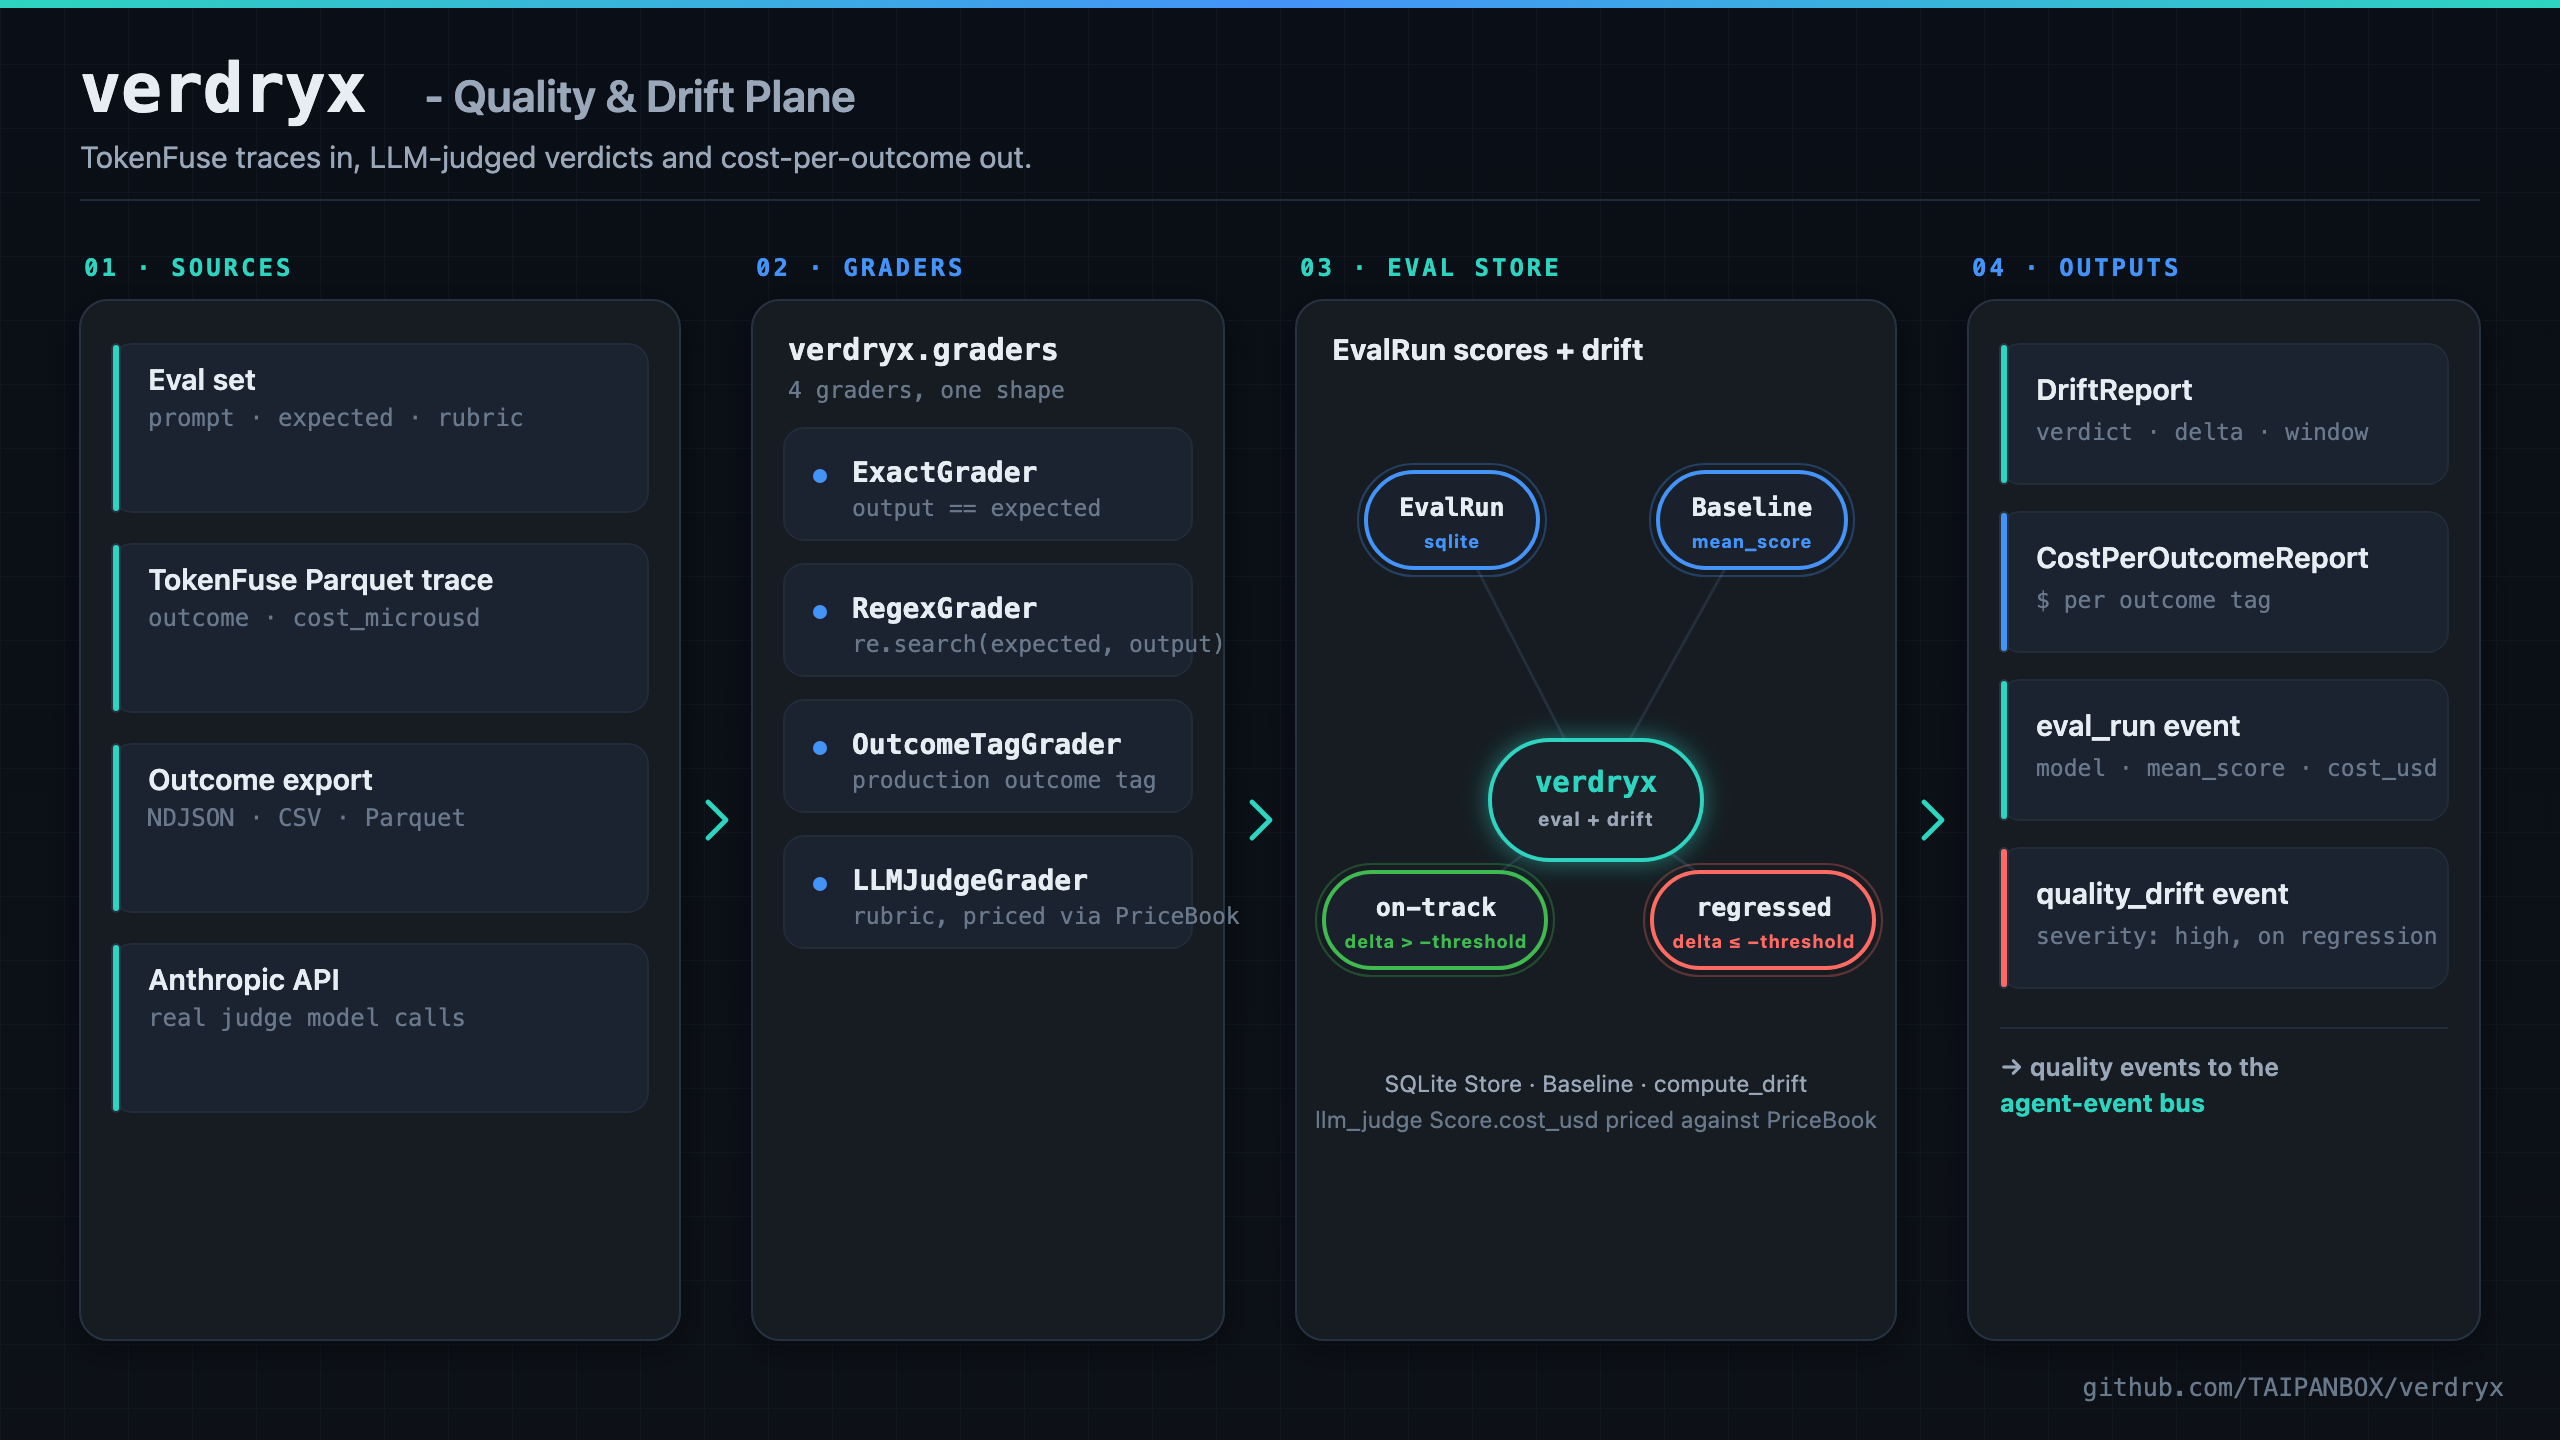
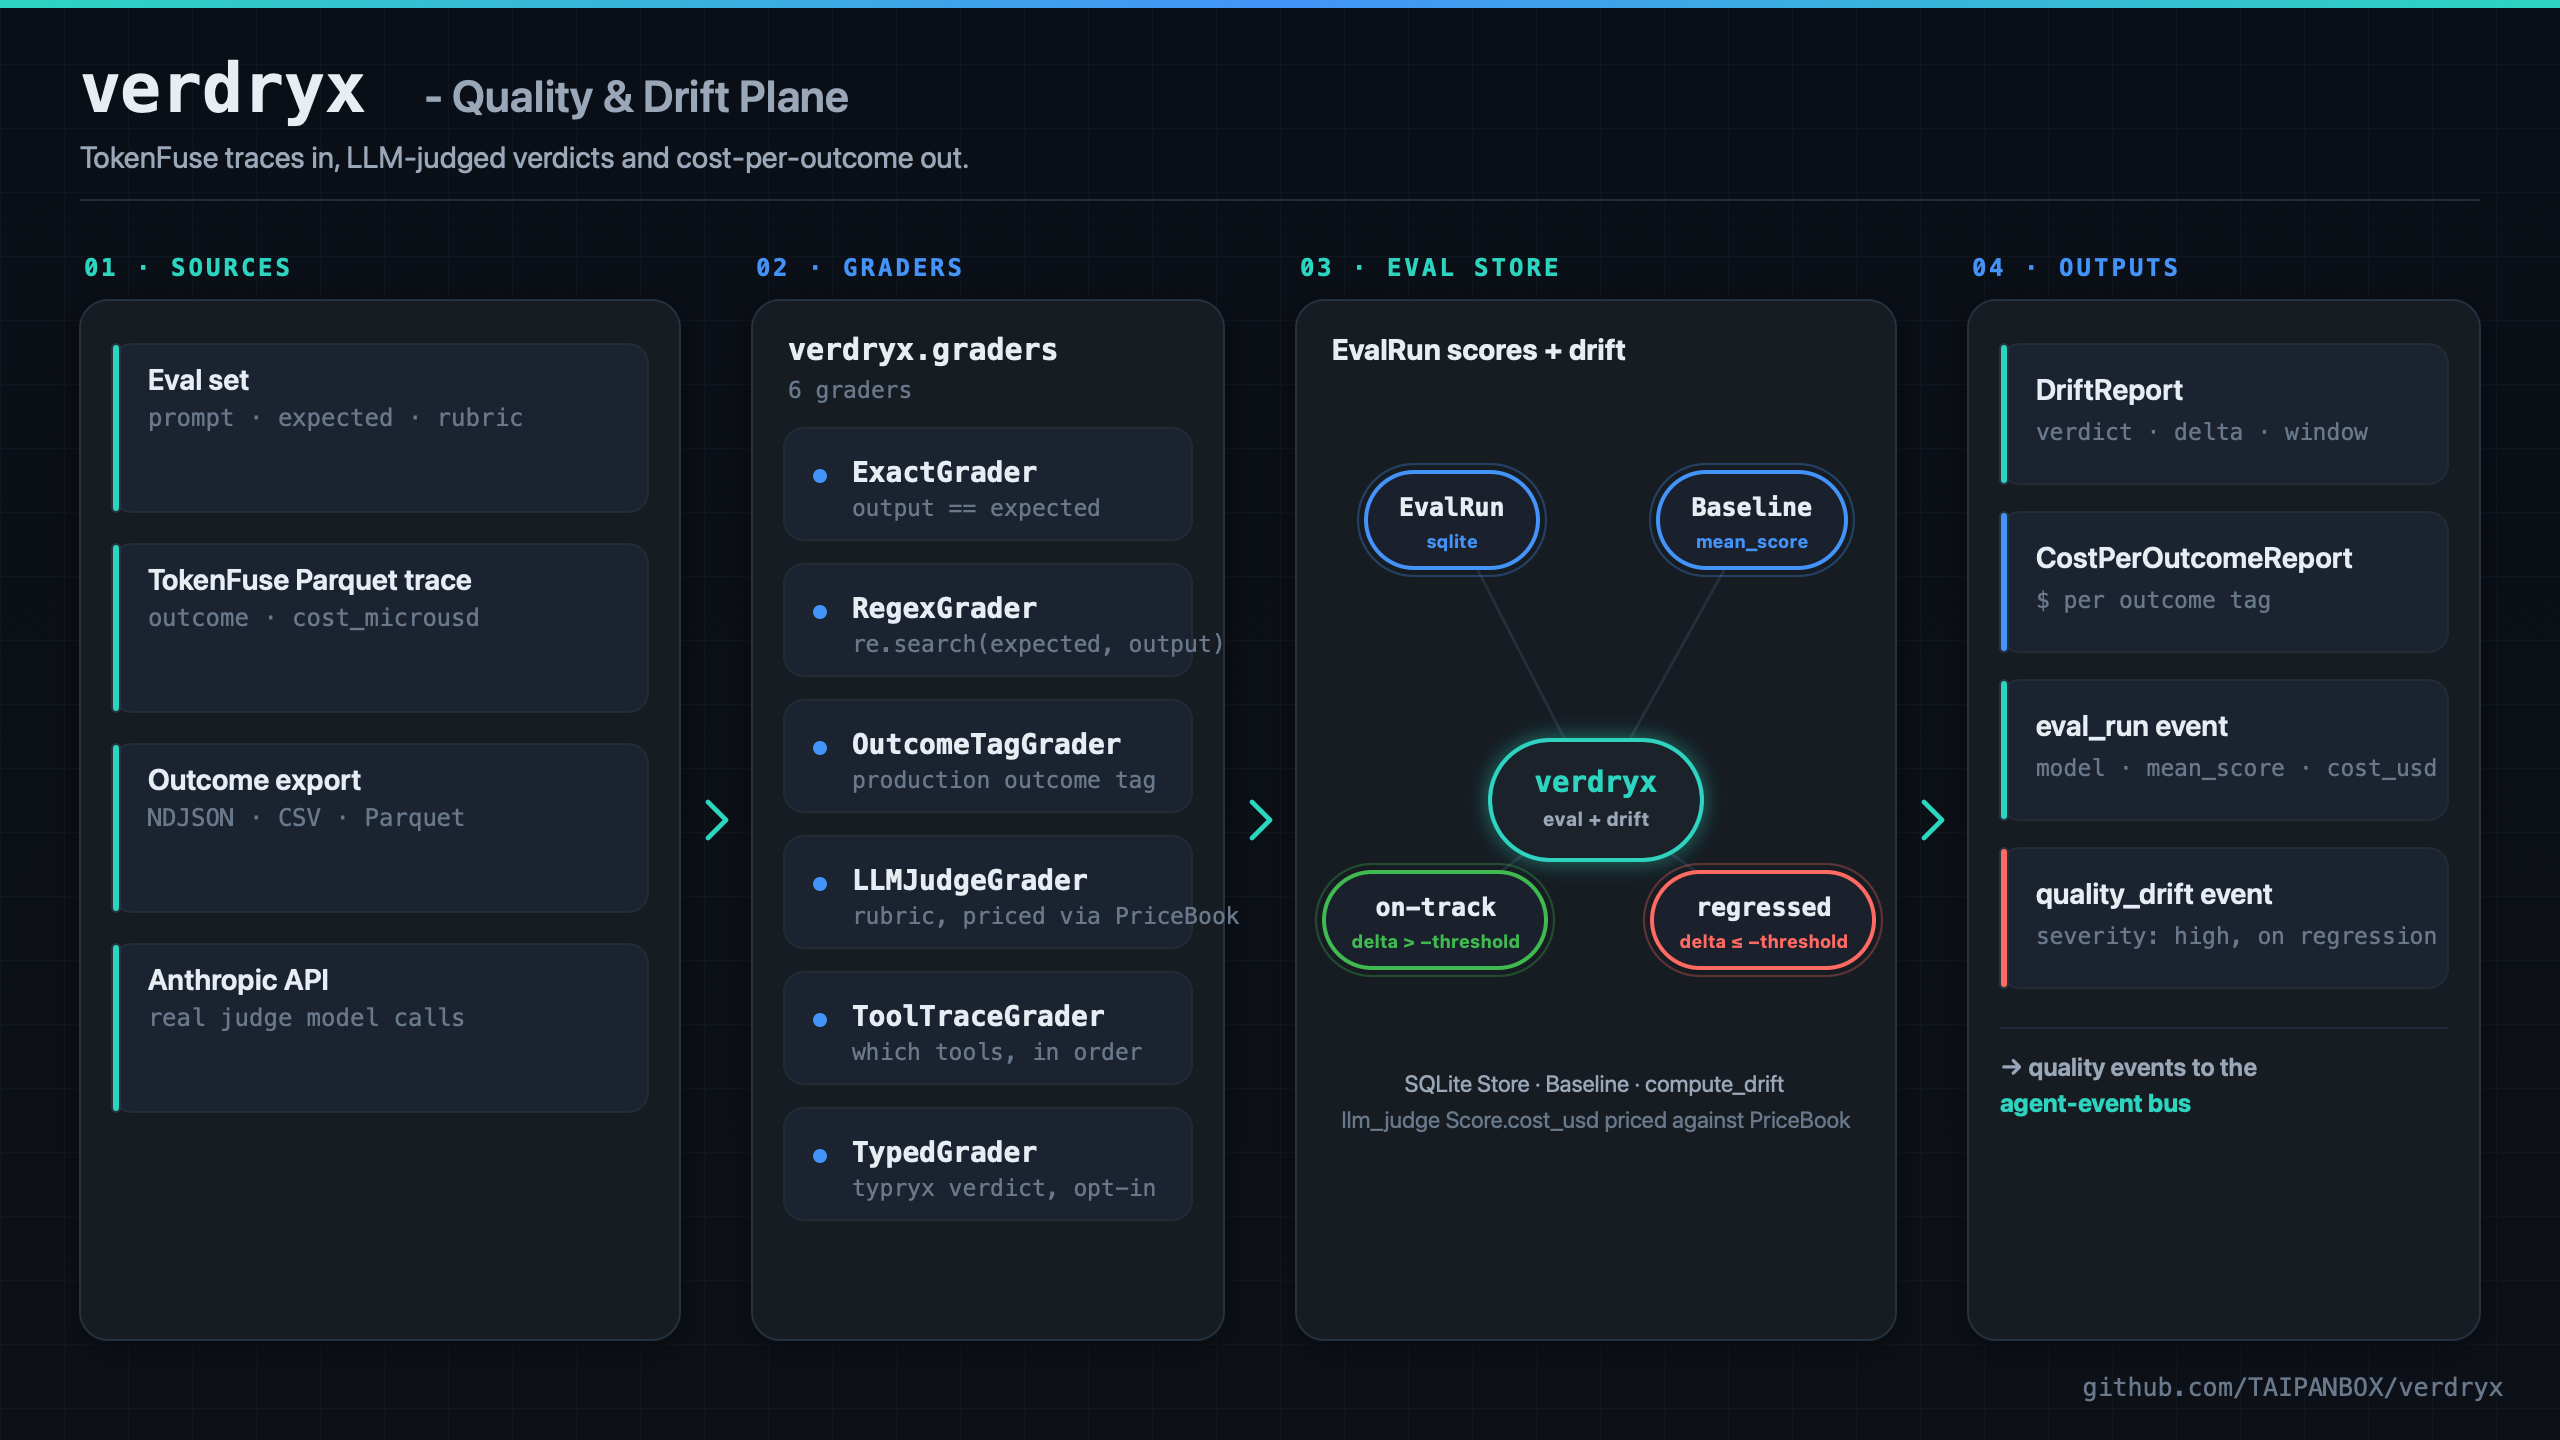
docs: six graders in the diagrams and their alt text (#69)
The code has six graders (Exact, Regex, OutcomeTag, LLMJudge, ToolTrace,
Typed) and the README table already says so, but both diagrams and their
alt text still showed four.

- README: both <img> alt texts say six graders; the LLM-judge note names
  the four graders that leave the 0.0 cost placeholder instead of "the
  other three".
- docs/architecture.svg: "6 graders", with ToolTraceGrader and
  TypedGrader cards; docs/architecture.png re-rendered from it at 2x.
- assets/diagram.svg: tool-trace and typed chips beside the other four.
- graders.py and conftest.py docstrings: counts that predate the last two
  graders.

diff --git a/verdryx/graders.py b/verdryx/graders.py
@@ -358,7 +358,7 @@ class ToolTraceGrader:
     list of tool names rather than free text. verdryx.cli's eval loop
     dispatches GraderKind.TOOL_TRACE cases here through `grade_trace()`
     specially, instead of through the shared `grade(case, output)` shape
-    the other four graders use; build_graders() still registers a
+    the other five graders use; build_graders() still registers a
     ToolTraceGrader unconditionally in the same dict, since -- unlike
     LLMJudgeGrader -- it needs no adapter of its own to construct.
 

diff --git a/tests/conftest.py b/tests/conftest.py
@@ -40,7 +40,7 @@ def event_schema_v1_0() -> dict[str, Any]:
 
 @pytest.fixture()
 def sample_evalset() -> EvalSet:
-    """A small eval set covering all four grader kinds.
+    """A small eval set covering the exact, regex, outcome_tag and llm_judge grader kinds.
 
     StubLLMAdapter's defaults (completion="stub output", judge_value=1.0)
     score every case here as a perfect match, so a run over this set with a

diff --git a/README.md b/README.md
@@ -10,7 +10,7 @@
 ![License](https://img.shields.io/badge/license-Apache--2.0-blue.svg)
 ![Status](https://img.shields.io/badge/phase-1%20(mvp)-success.svg)
 
-<img src="docs/architecture.png" alt="Verdryx architecture: eval sets, TokenFuse traces and outcome exports flow through four graders into the eval store, out as drift reports, cost-per-outcome and quality events" width="960">
+<img src="docs/architecture.png" alt="Verdryx architecture: eval sets, TokenFuse traces and outcome exports flow through six graders into the eval store, out as drift reports, cost-per-outcome and quality events" width="960">
 
 </div>
 
@@ -34,7 +34,7 @@ offensive-security tool.
 
 <div align="center">
 
-<img src="assets/diagram.svg" alt="Verdryx architecture: TokenFuse Parquet traces, outcome exports and eval sets pass through four graders into the eval store, and out as drift reports, cost per resolved outcome and quality events" width="960">
+<img src="assets/diagram.svg" alt="Verdryx architecture: TokenFuse Parquet traces, outcome exports and eval sets pass through six graders into the eval store, and out as drift reports, cost per resolved outcome and quality events" width="960">
 
 <sub>The same service as its room on <a href="https://it-rat.com/services/verdryx.html">it-rat.com</a> draws it, where the diagram sits next to a simulation you can scrub back and forth.</sub>
 
@@ -202,8 +202,9 @@ protocol (`complete()`, `judge()` and `complete_with_tools()`). Two are provided
   hitting Anthropic directly. Its `judge()` calls also price themselves
   against `verdryx.pricing.PriceBook` (a Python port of TokenFuse's own
   default price book), so an `llm_judge` case's `Score.cost_usd` is a real
-  dollar figure, not the `0.0` placeholder the other three graders leave in
-  place (they make no model call, so there is nothing to price).
+  dollar figure, not the `0.0` placeholder the exact, regex, outcome-tag and
+  tool-trace graders leave in place (they make no model call, so there is
+  nothing to price).
 
 The candidate output a judge grades is wrapped in an `<output-...>` block with an
 instruction to treat it as inert data, the same delimited-block technique
